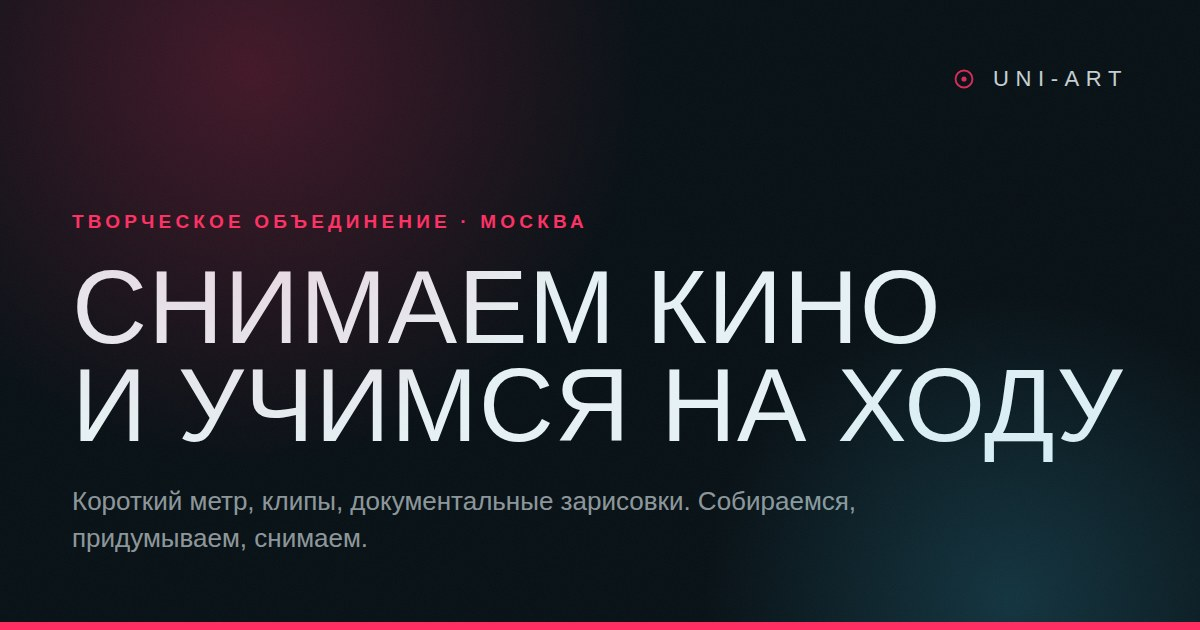
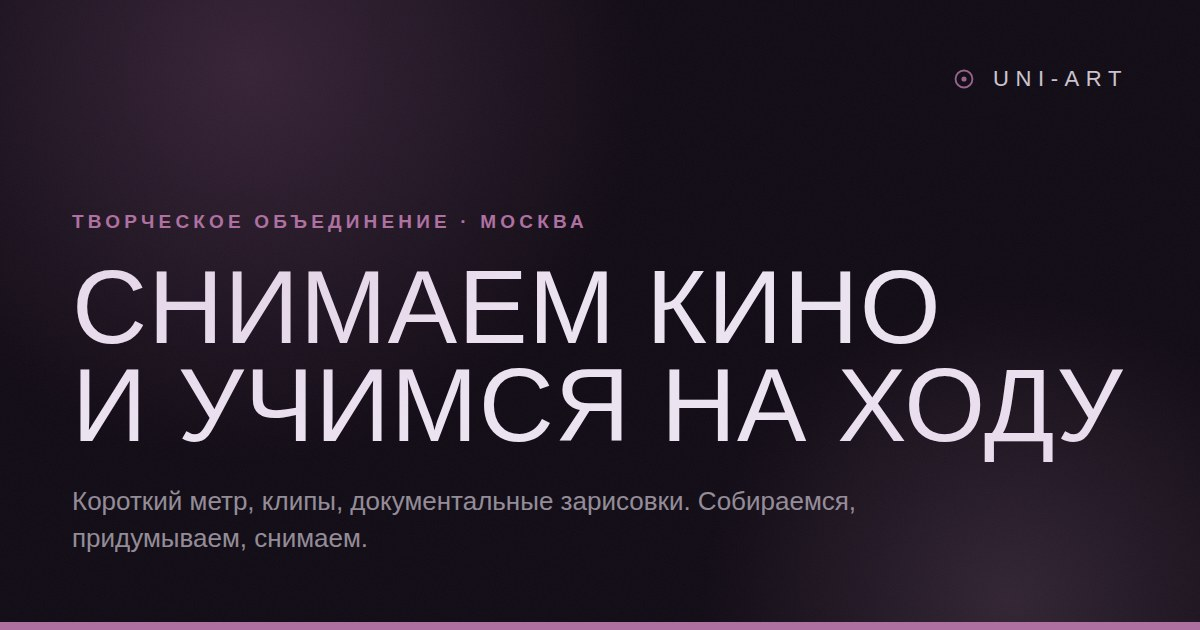
Палитра «Слива» и дрожание на уровне всего отображения
Сайт переведён на сливовую палитру: баклажановая основа, винный акцент,
лиловый контровый свет. Контрасты: текст на фоне 15.8:1, акцент как
мелкий текст на поверхности 4.67:1. Кадры-заглушки, иконка и картинка
превью перерисованы в ту же гамму.

Дрожание теперь в два независимых слоя. Первый — всё отображение целиком,
как зерно: шапка, содержимое и подвал. Второй, прежний, — кадры внутри
страницы. Периоды намеренно не совпадают (4.7 и 17.3 секунды против
3.1 и 11.7), поэтому слои никогда не попадают в такт; замер корреляции
их смещений дал 0.01 — то есть ходят независимо.

Размах у страничного слоя меньше, чем у кадров: движения складываются.

Модалка шоурила вынесена в портал на body. Анимация на main делает его
содержащим блоком для fixed-потомков, и окно уехало бы вниз страницы
вместо того, чтобы накрыть экран.

Проверено, что текст от постоянного субпиксельного сдвига не мылится:
резкость заголовка падает на 4%, это за пределами заметного.

Побочный эффект, описанный в README: элементы теперь никогда не замирают,
и автотесты не дожидаются стабильности — клики нужны с force либо
с отключёнными анимациями.

Claude-Session: https://claude.ai/code/session_01C78XUdNG1wfYss9Y2MskZj

Changed region(s): [[0.0, 0.7841, 1.0, 1.0], [0.0617, 0.3317, 0.37, 0.3619], [0.4008, 0.3317, 0.4933, 0.3619]]

diff --git a/src/app/globals.css b/src/app/globals.css
@@ -1,22 +1,21 @@
 @import "tailwindcss";
 
 :root {
-  /* Петроль как основа, малиновый акцент, холодный голубой контровый свет.
-     База и акцент стоят почти напротив друг друга на цветовом круге,
-     контровый свет — сосед базы. Все пары проверены на контраст:
-     минимум 4.58:1, то есть проходят AA даже мелким кеглем. */
-  --bg: #060f14;
-  --bg-soft: #0a1820;
-  --surface: #0e212b;
-  --border: rgba(150, 205, 220, 0.18);
-  --fg: #e6f2f5;
-  --fg-muted: rgba(230, 242, 245, 0.62);
-  --accent: #ff2e63;
-  --accent-soft: rgba(255, 46, 99, 0.14);
+  /* «Слива»: баклажановая основа, винный акцент, лиловый контровый свет.
+     Проверено на контраст: акцент как мелкий текст на поверхности — 4.67:1,
+     основной текст на фоне — 15.6:1. */
+  --bg: #100a14;
+  --bg-soft: #18101f;
+  --surface: #1f1528;
+  --border: rgba(225, 200, 240, 0.16);
+  --fg: #ede4f2;
+  --fg-muted: rgba(237, 228, 242, 0.6);
+  --accent: #ae6fa1;
+  --accent-soft: rgba(174, 111, 161, 0.16);
   /* цвет контурного света */
-  --rim: #44d6ff;
+  --rim: #c795bd;
   /* текст на заливке акцентом */
-  --on-accent: #060f14;
+  --on-accent: #100a14;
 }
 
 @theme inline {
@@ -432,6 +431,70 @@ body {
 
 @media (prefers-reduced-motion: reduce) {
   .flutter {
+    animation: none;
+  }
+}
+
+/*
+ * Второй слой дрожания — на всё отображение сразу, как зерно.
+ *
+ * Периоды намеренно не совпадают с дрожанием медиа (3.1 и 11.7 секунды):
+ * страница ходит своим ритмом, кадры внутри неё — своим, и вместе они
+ * никогда не попадают в такт. Совпади периоды, всё двигалось бы единым
+ * куском и эффект бы пропал.
+ *
+ * Размах меньше, чем у медиа: движения складываются, и на кадрах сумма
+ * не должна выходить за пределы заметного.
+ */
+@keyframes gate-weave-page {
+  0% {
+    translate: 0 0;
+  }
+  17% {
+    translate: -0.3px 0.2px;
+  }
+  33% {
+    translate: 0.25px 0.35px;
+  }
+  48% {
+    translate: 0.15px -0.3px;
+  }
+  62% {
+    translate: -0.35px -0.15px;
+  }
+  79% {
+    translate: 0.3px 0.25px;
+  }
+  100% {
+    translate: 0 0;
+  }
+}
+
+@keyframes gate-splice-page {
+  0%,
+  91% {
+    transform: translate3d(0, 0, 0);
+  }
+  93% {
+    transform: translate3d(-1.1px, 1.3px, 0);
+  }
+  95% {
+    transform: translate3d(0.5px, -0.5px, 0);
+  }
+  97%,
+  100% {
+    transform: translate3d(0, 0, 0);
+  }
+}
+
+.flutter-page {
+  animation:
+    gate-weave-page 4.7s ease-in-out infinite,
+    gate-splice-page 17.3s ease-in-out infinite;
+}
+
+@media (prefers-reduced-motion: reduce) {
+  .flutter-page {
     animation: none;
   }
 }

diff --git a/src/components/VideoModal.tsx b/src/components/VideoModal.tsx
@@ -1,6 +1,7 @@
 "use client";
 
 import { useEffect, useRef } from "react";
+import { createPortal } from "react-dom";
 
 type Props = {
   src: string;
@@ -26,7 +27,12 @@ export default function VideoModal({ src, title, onClose }: Props) {
     };
   }, [onClose]);
 
-  return (
+  // Окно рисуется прямо в body. Анимация дрожания на main делает его
+  // содержащим блоком для fixed-потомков, и модалка уехала бы вниз страницы.
+  // На сервере окна не существует: оно появляется только по клику.
+  if (typeof document === "undefined") return null;
+
+  return createPortal(
     <div
       role="dialog"
       aria-modal="true"
@@ -58,6 +64,7 @@ export default function VideoModal({ src, title, onClose }: Props) {
           />
         </div>
       </div>
-    </div>
+    </div>,
+    document.body,
   );
 }

diff --git a/src/components/Footer.tsx b/src/components/Footer.tsx
@@ -3,7 +3,7 @@ import { navLinks, site } from "@/content/site";
 
 export default function Footer() {
   return (
-    <footer className="border-t border-line bg-bg-soft">
+    <footer className="flutter-page border-t border-line bg-bg-soft">
       <div className="mx-auto w-full max-w-6xl px-4 py-14 sm:px-6">
         <div className="flex flex-col gap-10 md:flex-row md:justify-between">
           <div className="max-w-sm">

diff --git a/src/components/Header.tsx b/src/components/Header.tsx
@@ -38,7 +38,7 @@ export default function Header() {
 
   return (
     <header
-      className={`fixed inset-x-0 top-0 z-50 transition-colors duration-300 ${
+      className={`flutter-page fixed inset-x-0 top-0 z-50 transition-colors duration-300 ${
         scrolled || open
           ? "border-b border-line/80 bg-bg/90 backdrop-blur"
           : "border-b border-transparent"

diff --git a/src/app/(site)/layout.tsx b/src/app/(site)/layout.tsx
@@ -10,7 +10,7 @@ export default function SiteLayout({
   return (
     <>
       <Header />
-      <main id="main">{children}</main>
+      <main id="main" className="flutter-page">{children}</main>
       <Footer />
       <FilmGrain />
       <RimLight />

diff --git a/README.md b/README.md
@@ -48,6 +48,17 @@ npm run lint
 Фирменные цвета и шрифты — в `src/app/globals.css` (переменные `--accent`,
 `--bg`, `--fg`) и в `src/app/layout.tsx` (`Inter` + `Oswald`).
 
+## Особенность для автотестов
+
+Страница дрожит постоянно: и отображение целиком, и кадры внутри него
+живут собственными анимациями. Playwright и подобные инструменты ждут,
+пока элемент замрёт, и не дожидаются — клики нужно делать с `force: true`
+либо отключать анимации в тесте:
+
+```js
+await page.addStyleTag({ content: ".flutter,.flutter-page{animation:none!important}" });
+```
+
 ## Переменные окружения
 
 Скопируйте `.env.example` в `.env.local` для локальной разработки и задайте те же
